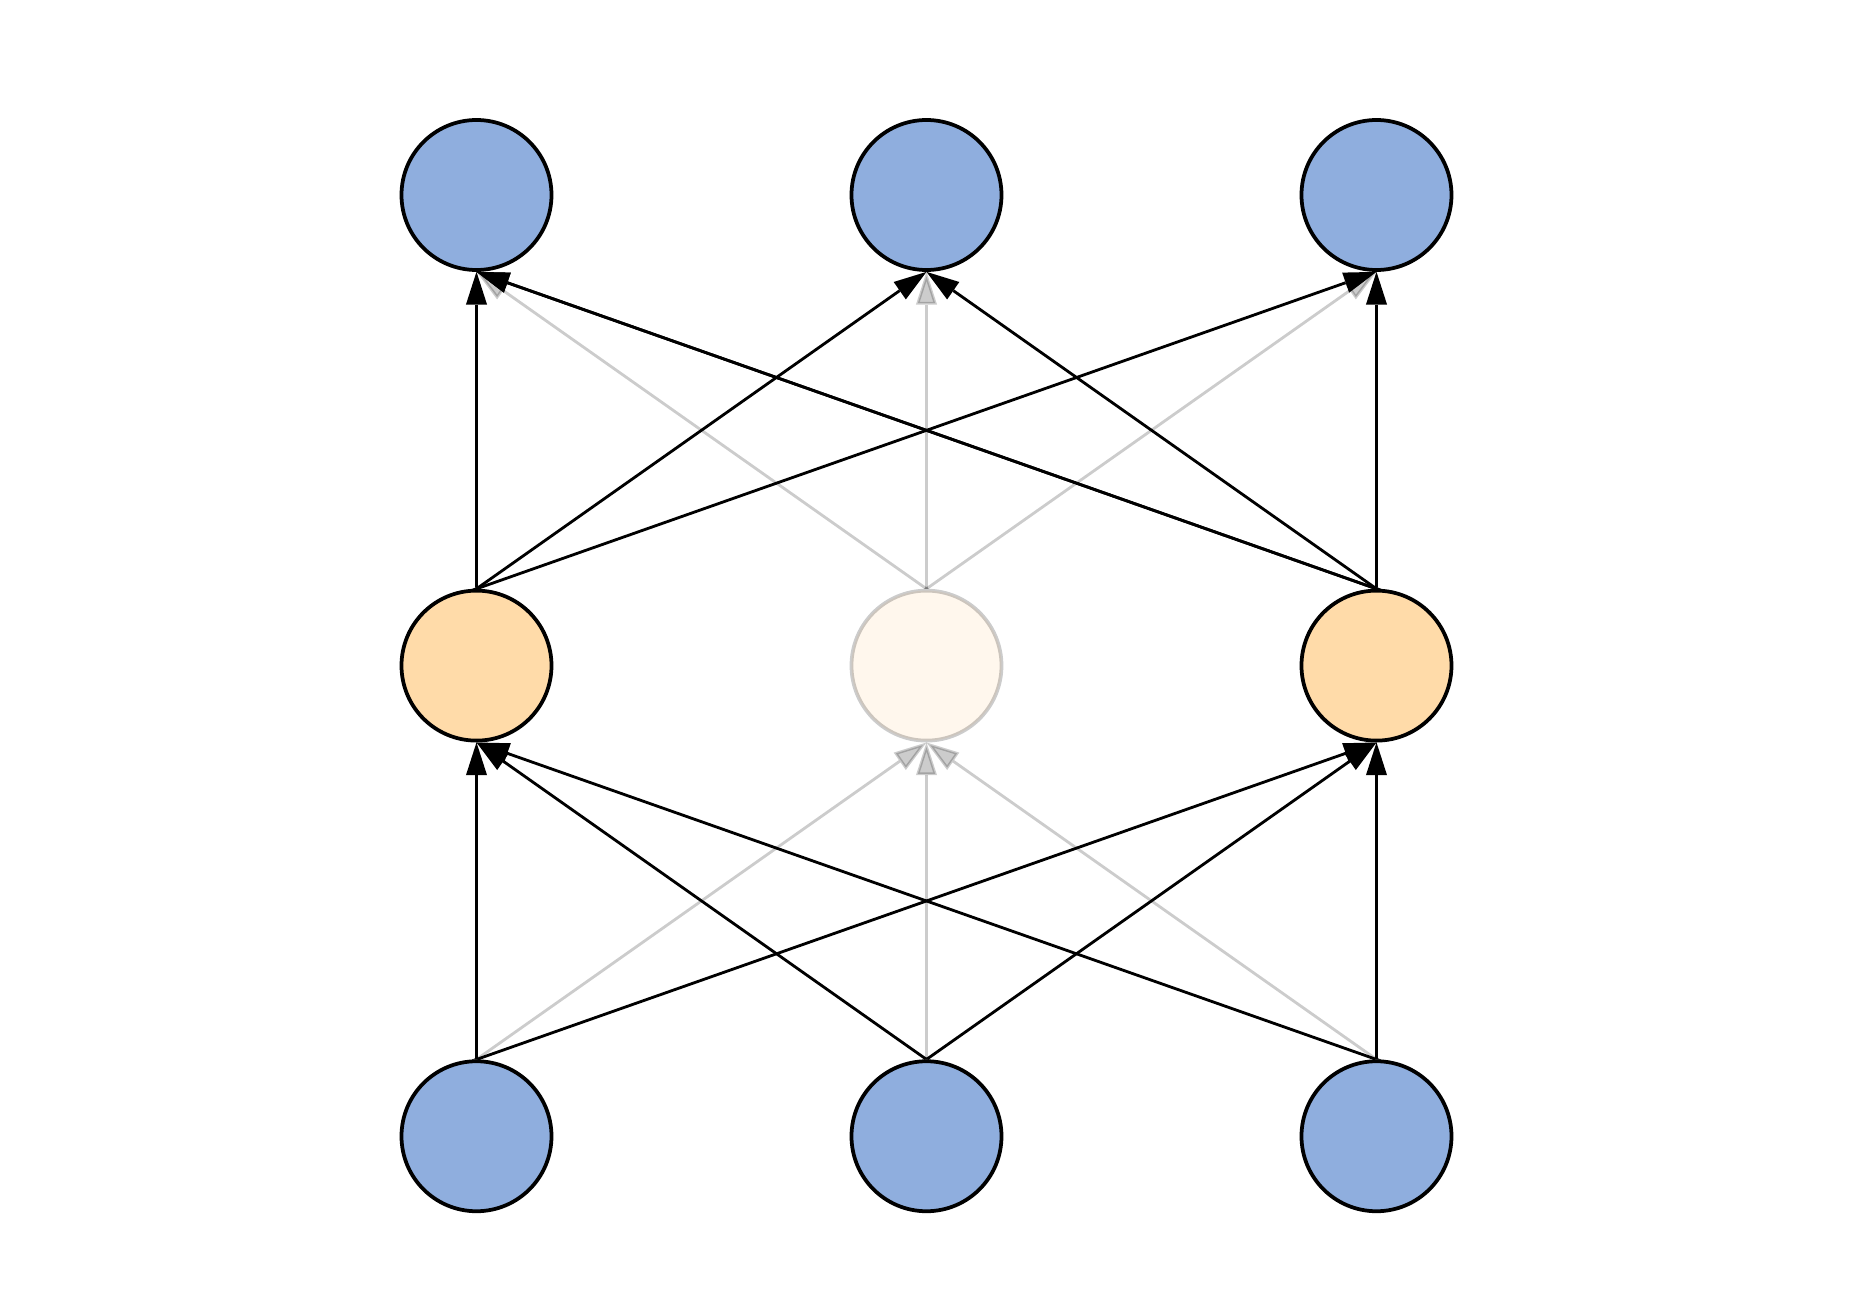
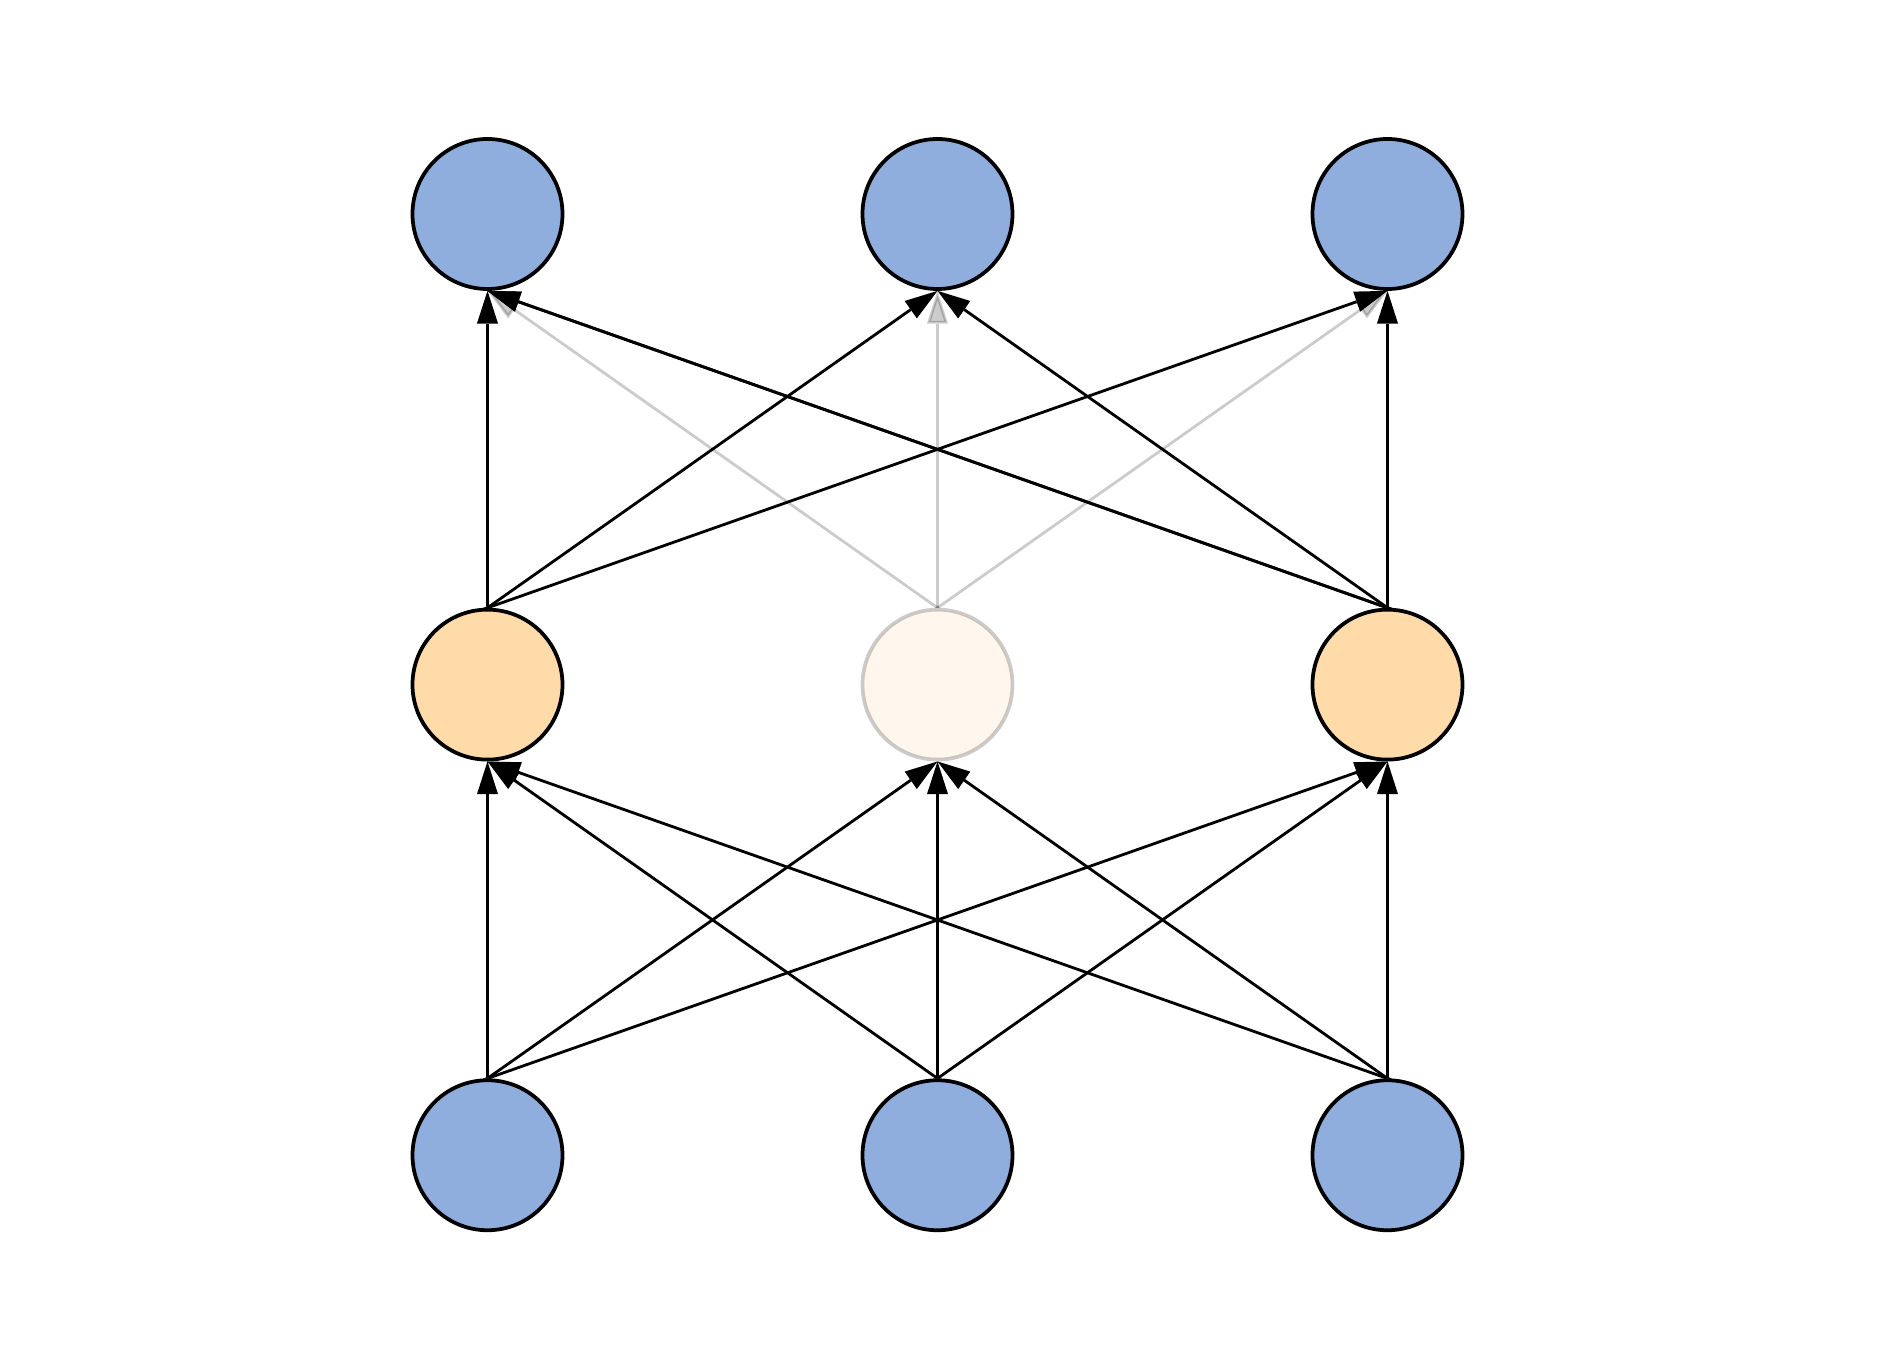
Fix the dropout illustration.

diff --git a/posts/2019-10-20-MLP-Part-3/index.html b/posts/2019-10-20-MLP-Part-3/index.html
@@ -250,7 +250,7 @@
                     </div>
 
                     <p>
-                    All these statistical manipulations normalize the expectation and variance of the gradients. Thus higher learning rates are becoming stable enough. This, in turn, has a positive effect the on characteristics of the trained model and the time required to train it.
+                    All these statistical manipulations normalize the expectation and variance of the gradients. Thus higher learning rates are becoming stable enough. This, in turn, has a positive effect on the characteristics of the trained model and the time required to train it.
                     </p>   
 
                     <h4>Data Augmentation</h4>
@@ -302,7 +302,7 @@
 
                     <div>
                     <img src="images/dropout.png">
-                    <div class="source">An example of how some random neuron is "dropped out" during the signals propagation.</div>
+                    <div class="source">An example of a random neuron that is dropped out during the forward pass: its output signals are ignored.</div>
                     </div>
 
                     <p>
